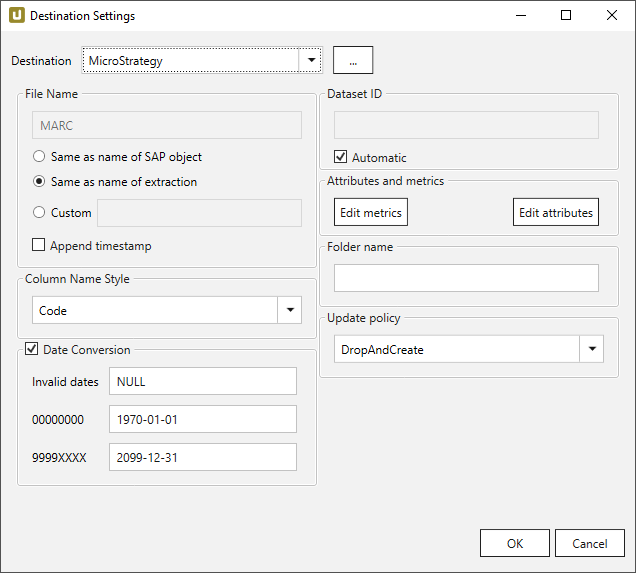
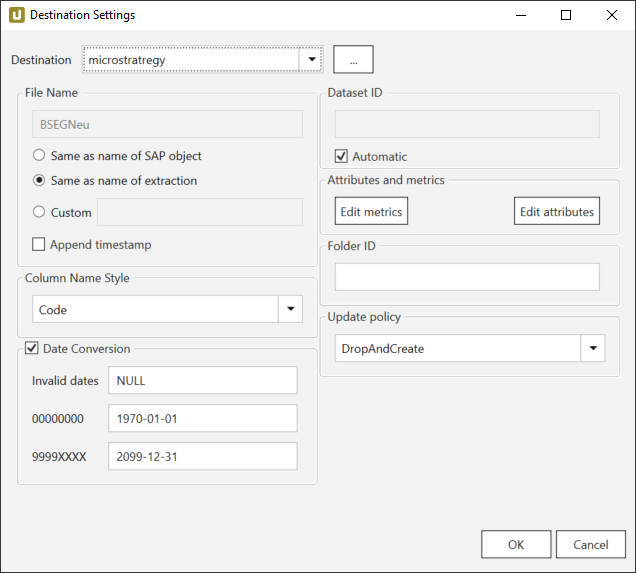
screenshots + verweis

diff --git a/content/_de/xtract-universal/destinationen/microstrategy/einstellungen.md b/content/_de/xtract-universal/destinationen/microstrategy/einstellungen.md
@@ -43,9 +43,12 @@ Um sie im Einzelfall anders definieren zu können, klicken Sie auf den entsprech
 
 ![mstr-extraction-settings_attr](/img/content/mstr-extraction-settings_attr.png){:class="img-responsive"}
 
-### Folder Name
+### Folder ID
 
-Optional. Geben Sie hier einen existierenden Ordner unter My Objects in Microstrategy an. Der Cube wird in dem definierten Ordner generiert.
+Optional. Geben Sie die ID eines in Microstrategy existierenden Ordners an.<br> 
+Die ID wird in Microstrategy unter *Properties* angezeigt. Der Cube wird in dem definierten Ordner generiert.
+
+![Folder-ID](/img/content/xu/microstrategy-folder.png){:class="img-responsive"}
 
 ### Update Policy
 Beschreibt die Art, wie die Daten in MSTR geschrieben werden. <br>

diff --git a/content/_en/xtract-universal/destinations/microstrategy/mstr-settings.md b/content/_en/xtract-universal/destinations/microstrategy/mstr-settings.md
@@ -45,9 +45,12 @@ If you wish to redefine attributes or metrics click on the correspondent button 
 
 ![mstr-extraction-settings_metrics](/img/content/mstr-extraction-settings_metrics.PNG){:class="img-responsive"}
 
-### Folder Name
+### Folder ID
 
-Optional. Set the name of an existing folder under My Objects in Microstrategy. The cube will be generated in the defined folder. 
+Optional. Enter the ID of a folder in Microstrategy. <br>The folder ID is displayed in Microstrategy under *Properties*. The cube will be generated in the defined folder. 
+
+![Folder-ID](/img/content/xu/microstrategy-folder.png){:class="img-responsive"}
+
 
 ### Update Policy
 

diff --git a/content/_de/xtract-universal/destinationen/microstrategy/verbindung.md b/content/_de/xtract-universal/destinationen/microstrategy/verbindung.md
@@ -20,7 +20,7 @@ Server API Endpoint, unter dem die JSON API erreichbar ist.<br>
 (Beispiel: https://env-12345.customer.cloud.microstrategy.com/MicroStrategyLibrary/api/)
 
 **Project Name**<br> 
-Name des Projektes, in welches die Daten geschrieben werden sollen.
+Name des Projektes, in das die Daten geschrieben werden sollen. Um einen bestimmten Order auszuwählen, siehe [Folder ID](./einstellungen#folder-id).
 
 **Username**<br> 
 Name des Benutzers.

diff --git a/content/_en/xtract-universal/destinations/microstrategy/mstr-connection.md b/content/_en/xtract-universal/destinations/microstrategy/mstr-connection.md
@@ -21,7 +21,7 @@ Microstrategy Server Endpoint for the JSON API.<br>
 (e.g.: https://env-12345.customer.cloud.microstrategy.com/MicroStrategyLibrary/api/)
 
 **Project Name**<br>
-Project name, where the SAP data must be loaded to. 
+Project name, where the SAP data is loaded to. To set a specific folder, see [Folder ID](./mstr-settings#folder-id).
 
 **User Name**<br>
 Name of the Microstrategy user.
